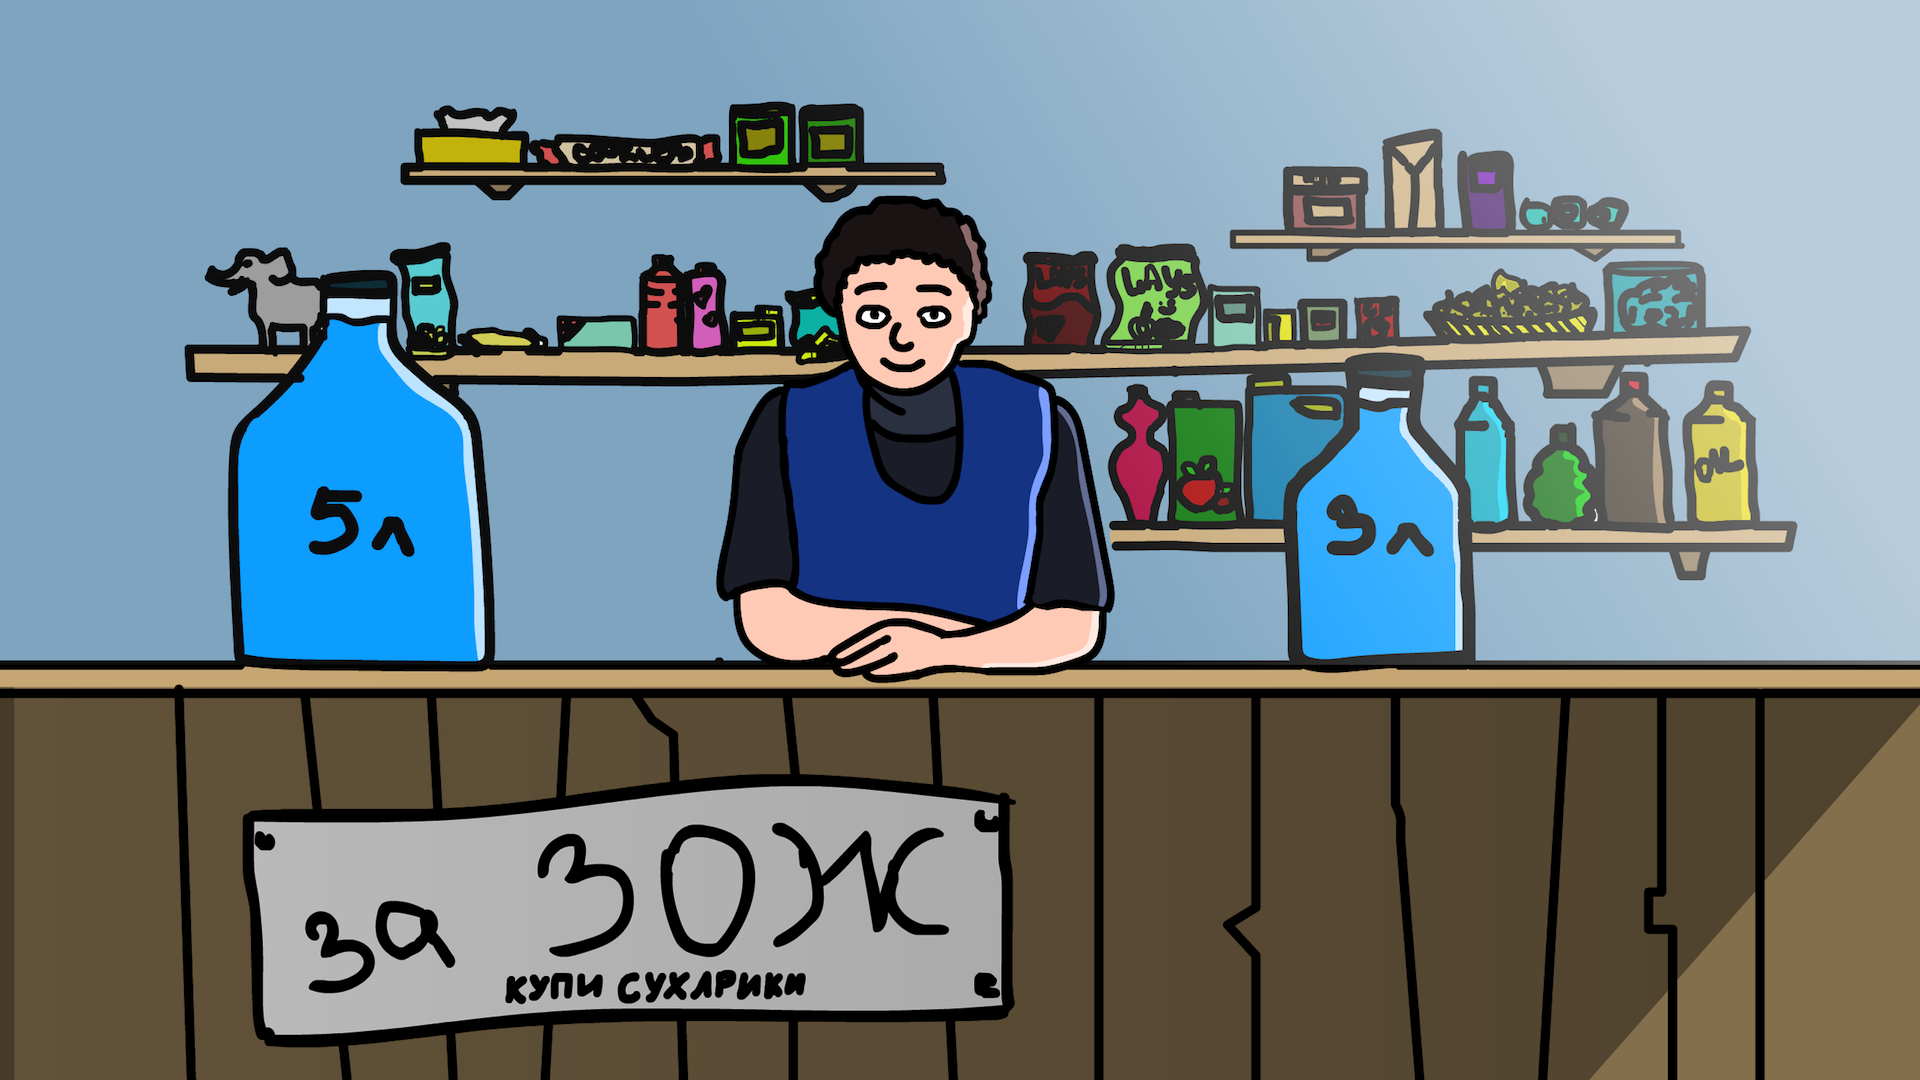
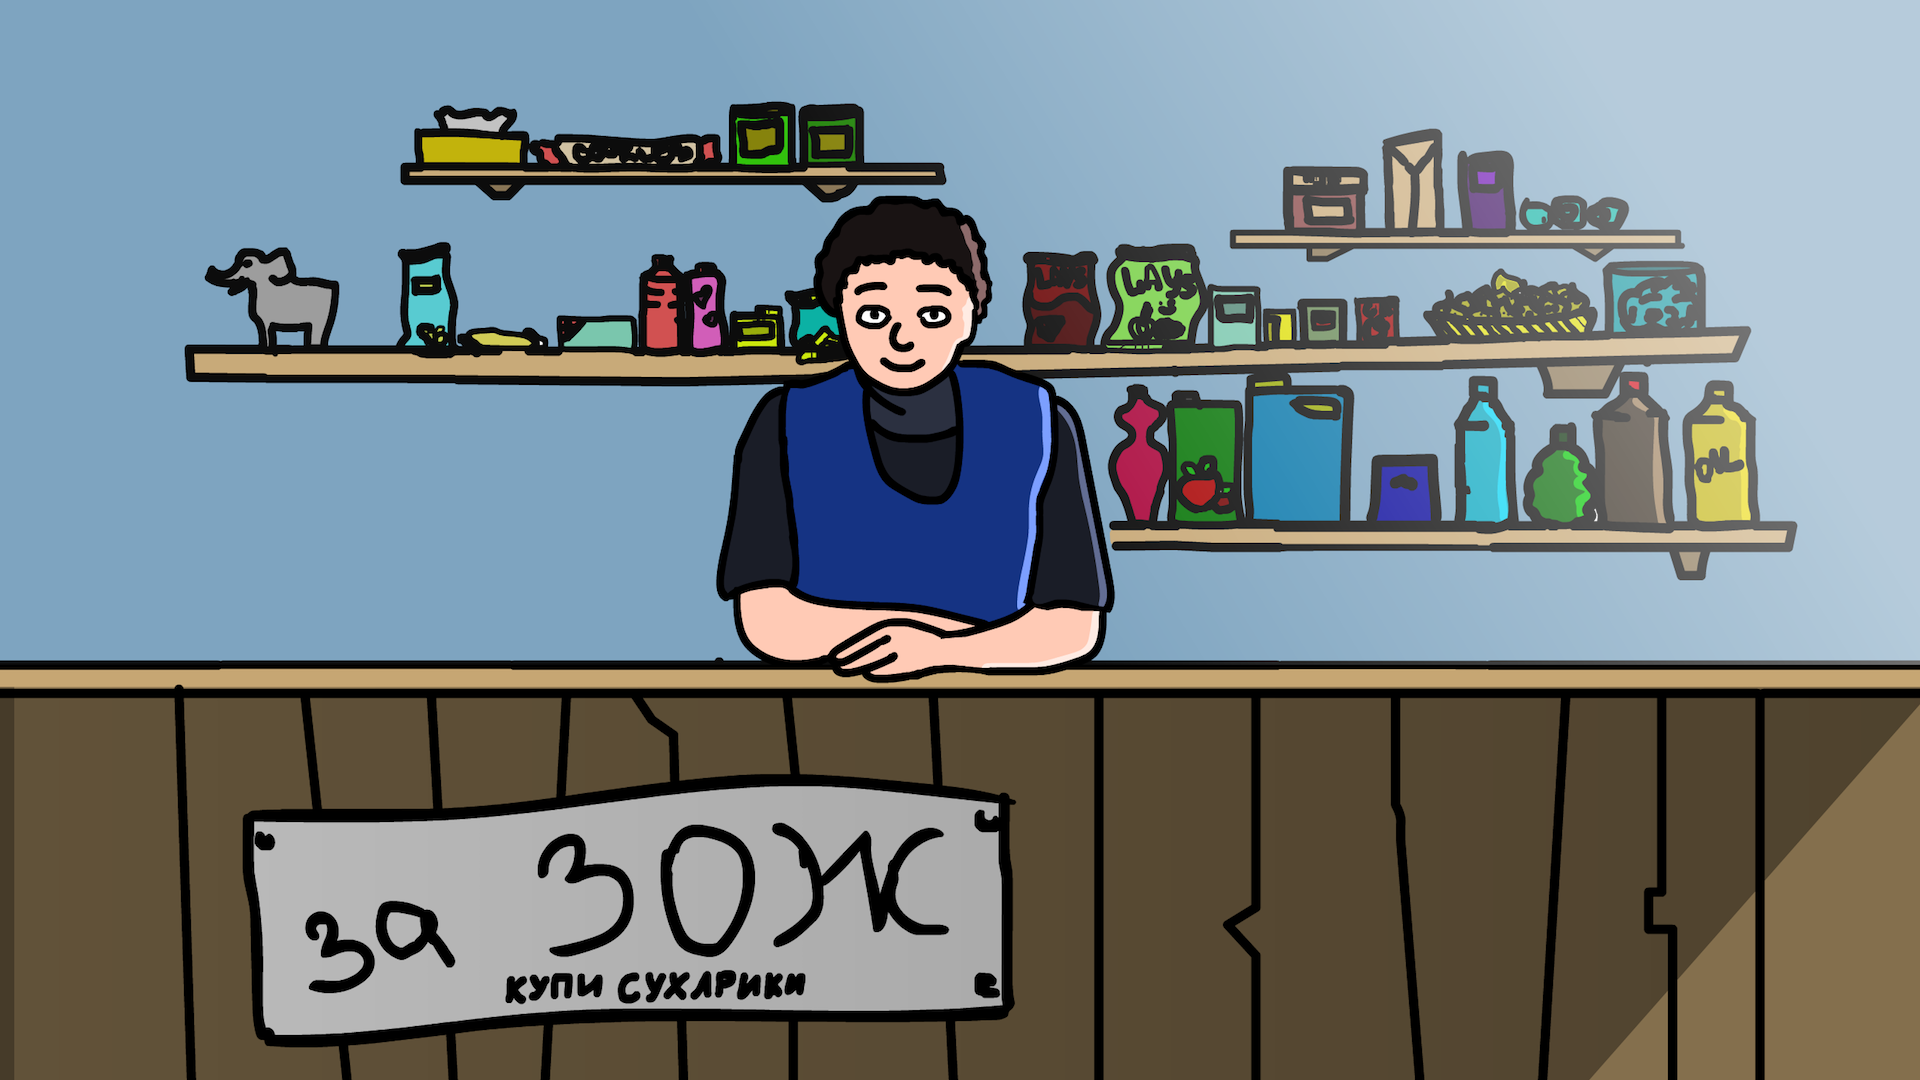
Конечная версия кроссворда + квеста-воды

Changed region(s): [[0.0938, 0.2444, 0.2812, 0.6417], [0.6562, 0.3056, 0.7812, 0.6417]]

diff --git a/frontend/src/components/Game/states/Water_Market.js b/frontend/src/components/Game/states/Water_Market.js
@@ -4,7 +4,7 @@ import {smartSetHeight} from '../utils';
 
 export default class WaterState extends Phaser.State {
     * gen() {
-        this.camera.scale.setTo(5, 5);
+        /*this.camera.scale.setTo(5, 5);
         this.camera.x = 1128 * 5;
         this.camera.y = 280 * 5 - 300;
         this.game.add.tween(this.camera).to({ x: -250, y: 0 }, 5000).start();
@@ -13,7 +13,7 @@ export default class WaterState extends Phaser.State {
             y: 1,
         }, 5000).start().onComplete.add(() => setTimeout(() => this.next(), 1000));
         this.game.camera.flash(0x000000, 3000, true);
-        yield;
+        yield;*/
 
         this.game.displayDialogLine('Продавець', 'Доброго дня! Чим я можу допомогти?', () => this.next());
         yield;
@@ -42,7 +42,7 @@ export default class WaterState extends Phaser.State {
         //first question
         let firstQuestion = this.addText("1) Вам необхідно обчислити об'єм двох тар у \nлітрах.\
 Вам відомо, що кожна тара - це циліндр. \nВисота першого цилінда 225 мм, діаметр 130 мм.\
-        \nДля другого целіндра висота дорівнює 325 мм, \nа діаметр 140 мм.", 500, 440, 30);
+        \nДля другого циліндра висота дорівнює 325 мм, \nа діаметр 140 мм.", 500, 440, 30);
 
         let firstAnswer = this.addText("а) 4 літра і 8 літрів;", 800, 650, 32);
         firstAnswer.isRight = false;
@@ -110,17 +110,17 @@ export default class WaterState extends Phaser.State {
 
         this.deleteText(thirdQuestion, answers);
         notebook.destroy();
+        rectOne.destroy();
         console.log("grade:" + this.grade);
         this.game.displayDialogLine('Продавець', 'Дякую! А ось як раз і ваша вода набралась. Прошу.', () => this.next());
         yield;
 
-        /*TODO: appearance of bottles*/
-        /*this.game.add.image(x, y, 'waterThreeLiter');
-        this.game.add.image(x, y, 'waterFiveLiter');*/
+        let bottles = this.game.add.image(440, 380, 'bottles');
+        smartSetHeight(bottles, 300);
         this.game.displayDialogLine('Ви', 'Дякую! До побачення.', () => this.next());
         yield;
 
-        //this.state.start('English');
+        this.state.start('Tranlsate');
     }
 
     init() {
@@ -130,16 +130,10 @@ export default class WaterState extends Phaser.State {
     preload() {
         this.load.image('bg', './assets/images/2-2 (water)/bg-2-2.png');
         this.load.image('notebook', './assets/images/2-2 (water)/hands-note.png')
+        this.load.image('bottles', './assets/images/2-2 (water)/bottles.png')
     }
 
     create() {
-        let graphics = this.game.add.graphics(0, 0);
-        graphics.lineStyle(2, 0xFFFFFF, 1);
-        graphics.beginFill(0xFFFFFF, 1);
-        let rectOne = graphics.drawRect(250, 770, 780, 300);
-        graphics.endFill();
-        window.graphics = graphics;
-
         let bg = this.game.add.image(0, 0, 'bg');
         bg.height = this.game.width * bg.height / bg.width;
         bg.width = this.game.width;

diff --git a/frontend/src/components/Game/states/Bubble.js b/frontend/src/components/Game/states/Bubble.js
@@ -1,0 +1,78 @@
+import Phaser from 'phaser';
+import {smartSetHeight} from '../utils';
+
+export default class BubbleState extends Phaser.State {
+    * gen() {
+        console.log(0);
+        console.log(this.camera);
+        window.CAMERA = this.camera;
+        this.camera.x = 1128;
+        this.camera.y = 280;
+        this.game.add.tween(this.camera.scale).to({
+            x: 1,
+            y: 1,
+        }, 3000).start().onComplete.add(() => {
+            this.next();
+        });
+        this.game.camera.flash(0x000000, 3000, true);
+        yield;
+
+        this.game.displayDialogLine('Підказка', 'На другому етапі від правильності виконання кожного квесту залежить ваш бал здачі ЗНО. Будьте уважні.', () => this.next());
+        yield;
+
+        let shadow = this.game.add.image(1285, 895, 'shadow');
+        smartSetHeight(shadow, 100);
+        let bubbleOne = this.game.add.image(1220, 280, 'bubble-1');
+        smartSetHeight(bubbleOne, 700);
+        this.game.displayDialogLine('Бабця', 'А ну стій. Куди?', () => this.next());
+        yield;
+
+        this.game.displayDialogLine('Ви', 'Я… цей… абітурієнт…', () => this.next());
+        yield;
+
+        this.game.displayDialogLine('Бабця', 'Бачила я вас таких “абітурієнтів”. Чому у шортах прийшов? У нас тут навчальний заклад, а не пляж!', () => this.next());
+        yield;
+
+        let hand = this.game.add.image(840,800, 'd-hand');
+        smartSetHeight(hand, 380);
+        this.game.displayDialogLine('Ви', 'Літо… Спекотно… Я й подумав, що краще буде вдягти…', () => this.next());
+        yield;
+
+        bubbleOne.destroy();
+        let bubbleTwo = this.game.add.image(1200, 250, 'bubble-2');
+        smartSetHeight(bubbleTwo, 730);
+        this.game.displayDialogLine('Бабця', 'Подумав він! Раз такий розумний допоможи розгадати кросворд.', () => this.next());
+        yield;
+
+        this.state.start('Cross');
+    }
+
+    init() {
+        this._gen = this.gen();
+    }
+
+    preload() {
+        this.load.image('bg', './assets/images/2-1 (crossword)/bg-2-1.png');
+        this.load.image('bubble-1', './assets/images/2-1 (crossword)/bubble-1.png');
+        this.load.image('bubble-2', './assets/images/2-1 (crossword)/bubble-2.png');
+        this.load.image('d-big', './assets/images/2-1 (crossword)/d-big.png');
+        this.load.image('d-hand', './assets/images/2-1 (crossword)/d-hand.png');
+        this.load.image('shadow', './assets/images/2-1 (crossword)/shadow.png');
+    }
+
+    create() {
+        let bg = this.game.add.image(0, 0, 'bg');
+        bg.height = this.game.width * bg.height / bg.width;
+        bg.width = this.game.width;  
+        
+        let david = this.game.add.image(45, 300, 'd-big');
+        smartSetHeight(david, 830);
+
+        this.stage.disableVisibilityChange = true;
+        this.next();
+    }
+
+    next() {
+        this._gen.next();
+    }
+}

diff --git a/frontend/src/components/Game/states/Cross.js b/frontend/src/components/Game/states/Cross.js
@@ -41,8 +41,8 @@ export default class CrossState extends Phaser.State {
         bg.height = this.game.width * bg.height / bg.width;
         bg.width = this.game.width;
 
-        this.flag = false;
-        this.flag_kiy = true;
+        this.flag_kiy = false;
+        this.flagBackspace = false;
 
         let first_word = this.create_input(1050, 265, 4, 3);
         first_word.coord_x = 1390;
@@ -128,6 +128,8 @@ export default class CrossState extends Phaser.State {
             });
         }
 
+        word.flag = false;
+
         let regEx = /[а-яА-ЯіІїЇєЄ]/;
 
         word.forEach(function (curr, index, first_word) {
@@ -144,9 +146,15 @@ export default class CrossState extends Phaser.State {
                 else if(e.keyCode == 8){
                     curr.setText('');
                     curr.startFocus();
-                    if(first_word[index-1] !== undefined){
+                    if(first_word[index-1] !== undefined && this.flagBackspace === true){
                         curr.endFocus();
                         first_word[index-1].startFocus();
+                    }
+                    if(this.flagBackspace === true){
+                        this.flagBackspace = false;
+                    }
+                    else {
+                        this.flagBackspace = true;
                     }
                 }
             });
@@ -164,30 +172,29 @@ export default class CrossState extends Phaser.State {
         if(input_obj.isCorrect){
             input_obj.ok.alpha = 1;
             input_obj.bad.alpha = 0;
-            this.flag = false;
+            input_obj.flag = false;
             if(str === 'ураїни'){
                 input_obj.ok.alpha = 1;
                 input_obj.ok_small.alpha = 1;
                 input_obj.bad_small.alpha = 0;
             }
         }
-
         else {
-            if(!this.flag || !this.flag_kiy){
+            if(!input_obj.flag || !this.flag_kiy){
                 input_obj.ok.alpha = 0;
                 input_obj.bad.alpha = 1;
                 if(str === 'ураїни'){
                     if(input_obj[input_obj.length - 1].value.toLowerCase() === 'и'){
                         input_obj.ok_small.alpha = 1;
                         input_obj.bad_small.alpha = 0;
-                        this.flag_kiy = false;
+                        this.flag_kiy = true;
                     }
                     else {
                         input_obj.ok_small.alpha = 0;
                         input_obj.bad_small.alpha = 1;
                     }
                 }
-                this.flag = true;
+                input_obj.flag = true;
             }
         }
 
@@ -198,6 +205,7 @@ export default class CrossState extends Phaser.State {
                 this.rate = Math.round(this.minPoints * percent + this.minPoints);
             }
             this.rateText.setText(this.rate);
+            this.state.start('BubbleGood');
         }
     }
 

diff --git a/frontend/src/components/Game/states/BubbleGood.js b/frontend/src/components/Game/states/BubbleGood.js
@@ -1,0 +1,42 @@
+import Phaser from 'phaser';
+import {smartSetHeight} from '../utils';
+
+export default class BubbleGoodState extends Phaser.State {
+    * gen() {
+        this.game.displayDialogLine('Бабця', ' Добре, дійсно розумний, але неохайний. Іншого разу приходь у нормальному вигляді. А зараз проходь.', () => this.next());
+        yield;
+        
+        this.state.start('Water_Alyoshin');
+    }
+
+    init() {
+        this._gen = this.gen();
+    }
+
+    preload() {
+        this.load.image('bg', './assets/images/2-1 (crossword)/bg-2-1.png');
+        this.load.image('bubble', './assets/images/2-1 (crossword)/bubble-3.png');
+        this.load.image('d-big', './assets/images/2-1 (crossword)/d-big.png');
+    }
+
+    create() {
+        let bg = this.game.add.image(0, 0, 'bg');
+        bg.height = this.game.width * bg.height / bg.width;
+        bg.width = this.game.width;  
+        
+        let david = this.game.add.image(45, 300, 'd-big');
+        smartSetHeight(david, 830);
+
+        let shadow = this.game.add.image(1285, 895, 'shadow');
+        smartSetHeight(shadow, 100);
+        let bubbleGood = this.game.add.image(1220, 280, 'bubble');
+        smartSetHeight(bubbleGood, 700);
+
+        this.stage.disableVisibilityChange = true;
+        this.next();
+    }
+
+    next() {
+        this._gen.next();
+    }
+}

diff --git a/frontend/src/components/Game/Game.js b/frontend/src/components/Game/Game.js
@@ -7,7 +7,9 @@ import IntroState from './states/Intro';
 import DocsState from './states/Docs';
 import ScannerState from './states/Scanner';
 import BrowserState from './states/Browser';
+import BubbleState from './states/Bubble';
 import CrossState from './states/Cross';
+import BubbleGoodState from './states/BubbleGood';
 import WaterAlyoshinState from './states/Water_Alyoshin';
 import WaterMarketState from './states/Water_Market';
 import TranslateState from './states/Translate';
@@ -27,7 +29,9 @@ class Game extends Phaser.Game {
         this.state.add('Docs', DocsState, false);
         this.state.add('Scanner', ScannerState, false);
         this.state.add('Browser', BrowserState, false);
+        this.state.add('Bubble', BubbleState, false);
         this.state.add('Cross', CrossState, false);
+        this.state.add('BubbleGood', BubbleGoodState, false);
         this.state.add('Water_Alyoshin', WaterAlyoshinState, false);
         this.state.add('Water_Market', WaterMarketState, false);
         this.state.add('Translate', TranslateState, false);

diff --git a/frontend/src/components/Game/states/Boot.js b/frontend/src/components/Game/states/Boot.js
@@ -23,10 +23,10 @@ export default class BootState extends Phaser.State {
 
     render() {
         if (config.webfonts.length && this.fontsReady) {
-            this.state.start('Water_Market');
+            this.state.start('Bubble');
         }
         if (!config.webfonts.length) {
-            this.state.start('Water_Market');
+            this.state.start('Bubble');
         }
     }
 
